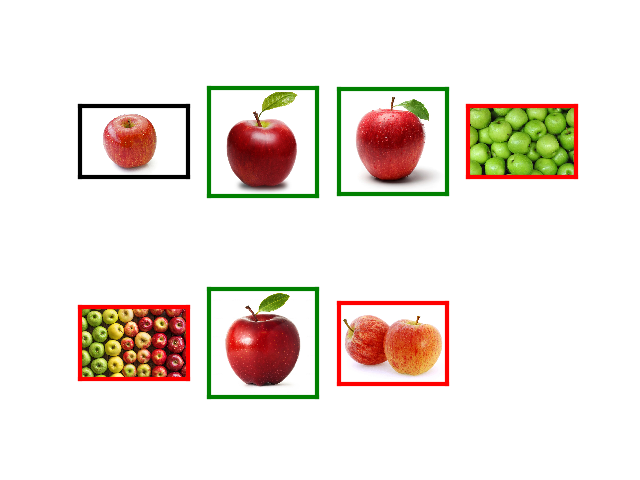
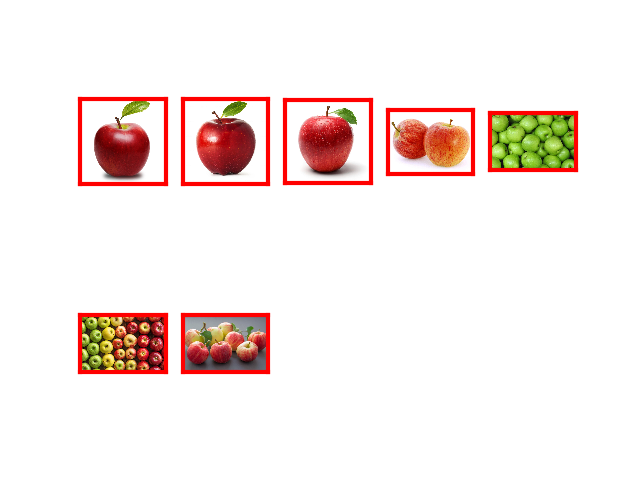
different layers setup for mse loss

Changed region(s): [[0.0938, 0.1562, 0.9062, 0.4375], [0.125, 0.5938, 0.7188, 0.8438]]

diff --git a/main.py b/main.py
@@ -21,7 +21,7 @@ searchImage = []
 for filename in glob.glob(path):
     searchImage = Image.open(filename)
     
-imgSize = 512
+imgSize = 56
 transform = transforms.Compose([
     transforms.Resize((imgSize,imgSize)),
     transforms.ToTensor(),
@@ -33,16 +33,16 @@ def imToTrain(im):
     im = Variable(im)
     return im
 
-def makeLayers(cnn, last = 5):
+def getMatches(cnn, search, targets, layers):
     model = nn.Sequential()
     i = 0
     name = ""
     sequences = list(cnn.children())[0]
+    mseValues = [0 for i in range(0, len(targets))]
+    threshold = 0.01
     for layer in sequences:
         if isinstance(layer, nn.Conv2d):
             i += 1
-            if i > last:
-                break
             name = 'conv_{}'.format(i)
         elif isinstance(layer, nn.ReLU):
             name = 'relu_{}'.format(i)
@@ -59,8 +59,23 @@ def makeLayers(cnn, last = 5):
             name = 'linear_{}'.format(i)
         else:
             continue
+
         model.add_module(name, layer)
-    return model
+        if name in layers:
+            searchEncoding = model(search).detach()
+            for i in range(0, len(imageList)):
+                compareEncoding = model(targets[i]).detach()
+                normalizedMse = F.mse_loss(searchEncoding, compareEncoding)
+
+                mseValues[i] += normalizedMse.numpy()
+                print("Mse is {}".format(mseValues[i]))
+
+    result = {i: False for i in range(0, len(targets))}
+    for i in range(0, len(mseValues)):
+        if mseValues[i]/len(layers) < threshold:
+            result[i] = True
+
+    return result
 
 def plot(matches):
     plt.rcParams['axes.linewidth'] = 3
@@ -80,7 +95,6 @@ def plot(matches):
         color = 'red'
         if value == True:
             color = "green"
-            print(color)
         ax.spines['bottom'].set_color(color)
         ax.spines['top'].set_color(color)
         ax.spines['right'].set_color(color)
@@ -94,21 +108,8 @@ device = torch.device("cuda" if torch.cuda.is_available() else "cpu")
 pretrained = models.vgg19_bn(pretrained=True).eval()
 cnn = copy.deepcopy(pretrained)
 
-layers = ['conv_5']
-model = makeLayers(cnn)
-searchEncoding = model(imToTrain(searchImage)).detach()
-matches = {i:False for i in range(1, len(imageList))}
-threshold = 0.01
-for i in range(1, len(imageList)):
-    compareEncoding = model(imToTrain(imageList[i])).detach()
-    normalizedMse = F.mse_loss(searchEncoding, compareEncoding)
-
-    value = normalizedMse.numpy()
-    print("Mse is {}".format(value))
-    if value < threshold:
-        matches[i] = True
-    if i % 10 == 0:
-        print("At image {}".format(i))
-
+layers = ['conv_4', 'conv_5']
+targets = [imToTrain(image) for image in imageList]
+matches = getMatches(cnn, imToTrain(searchImage), targets, layers)
 print("Done matching, now plotting")
 plot(matches)
